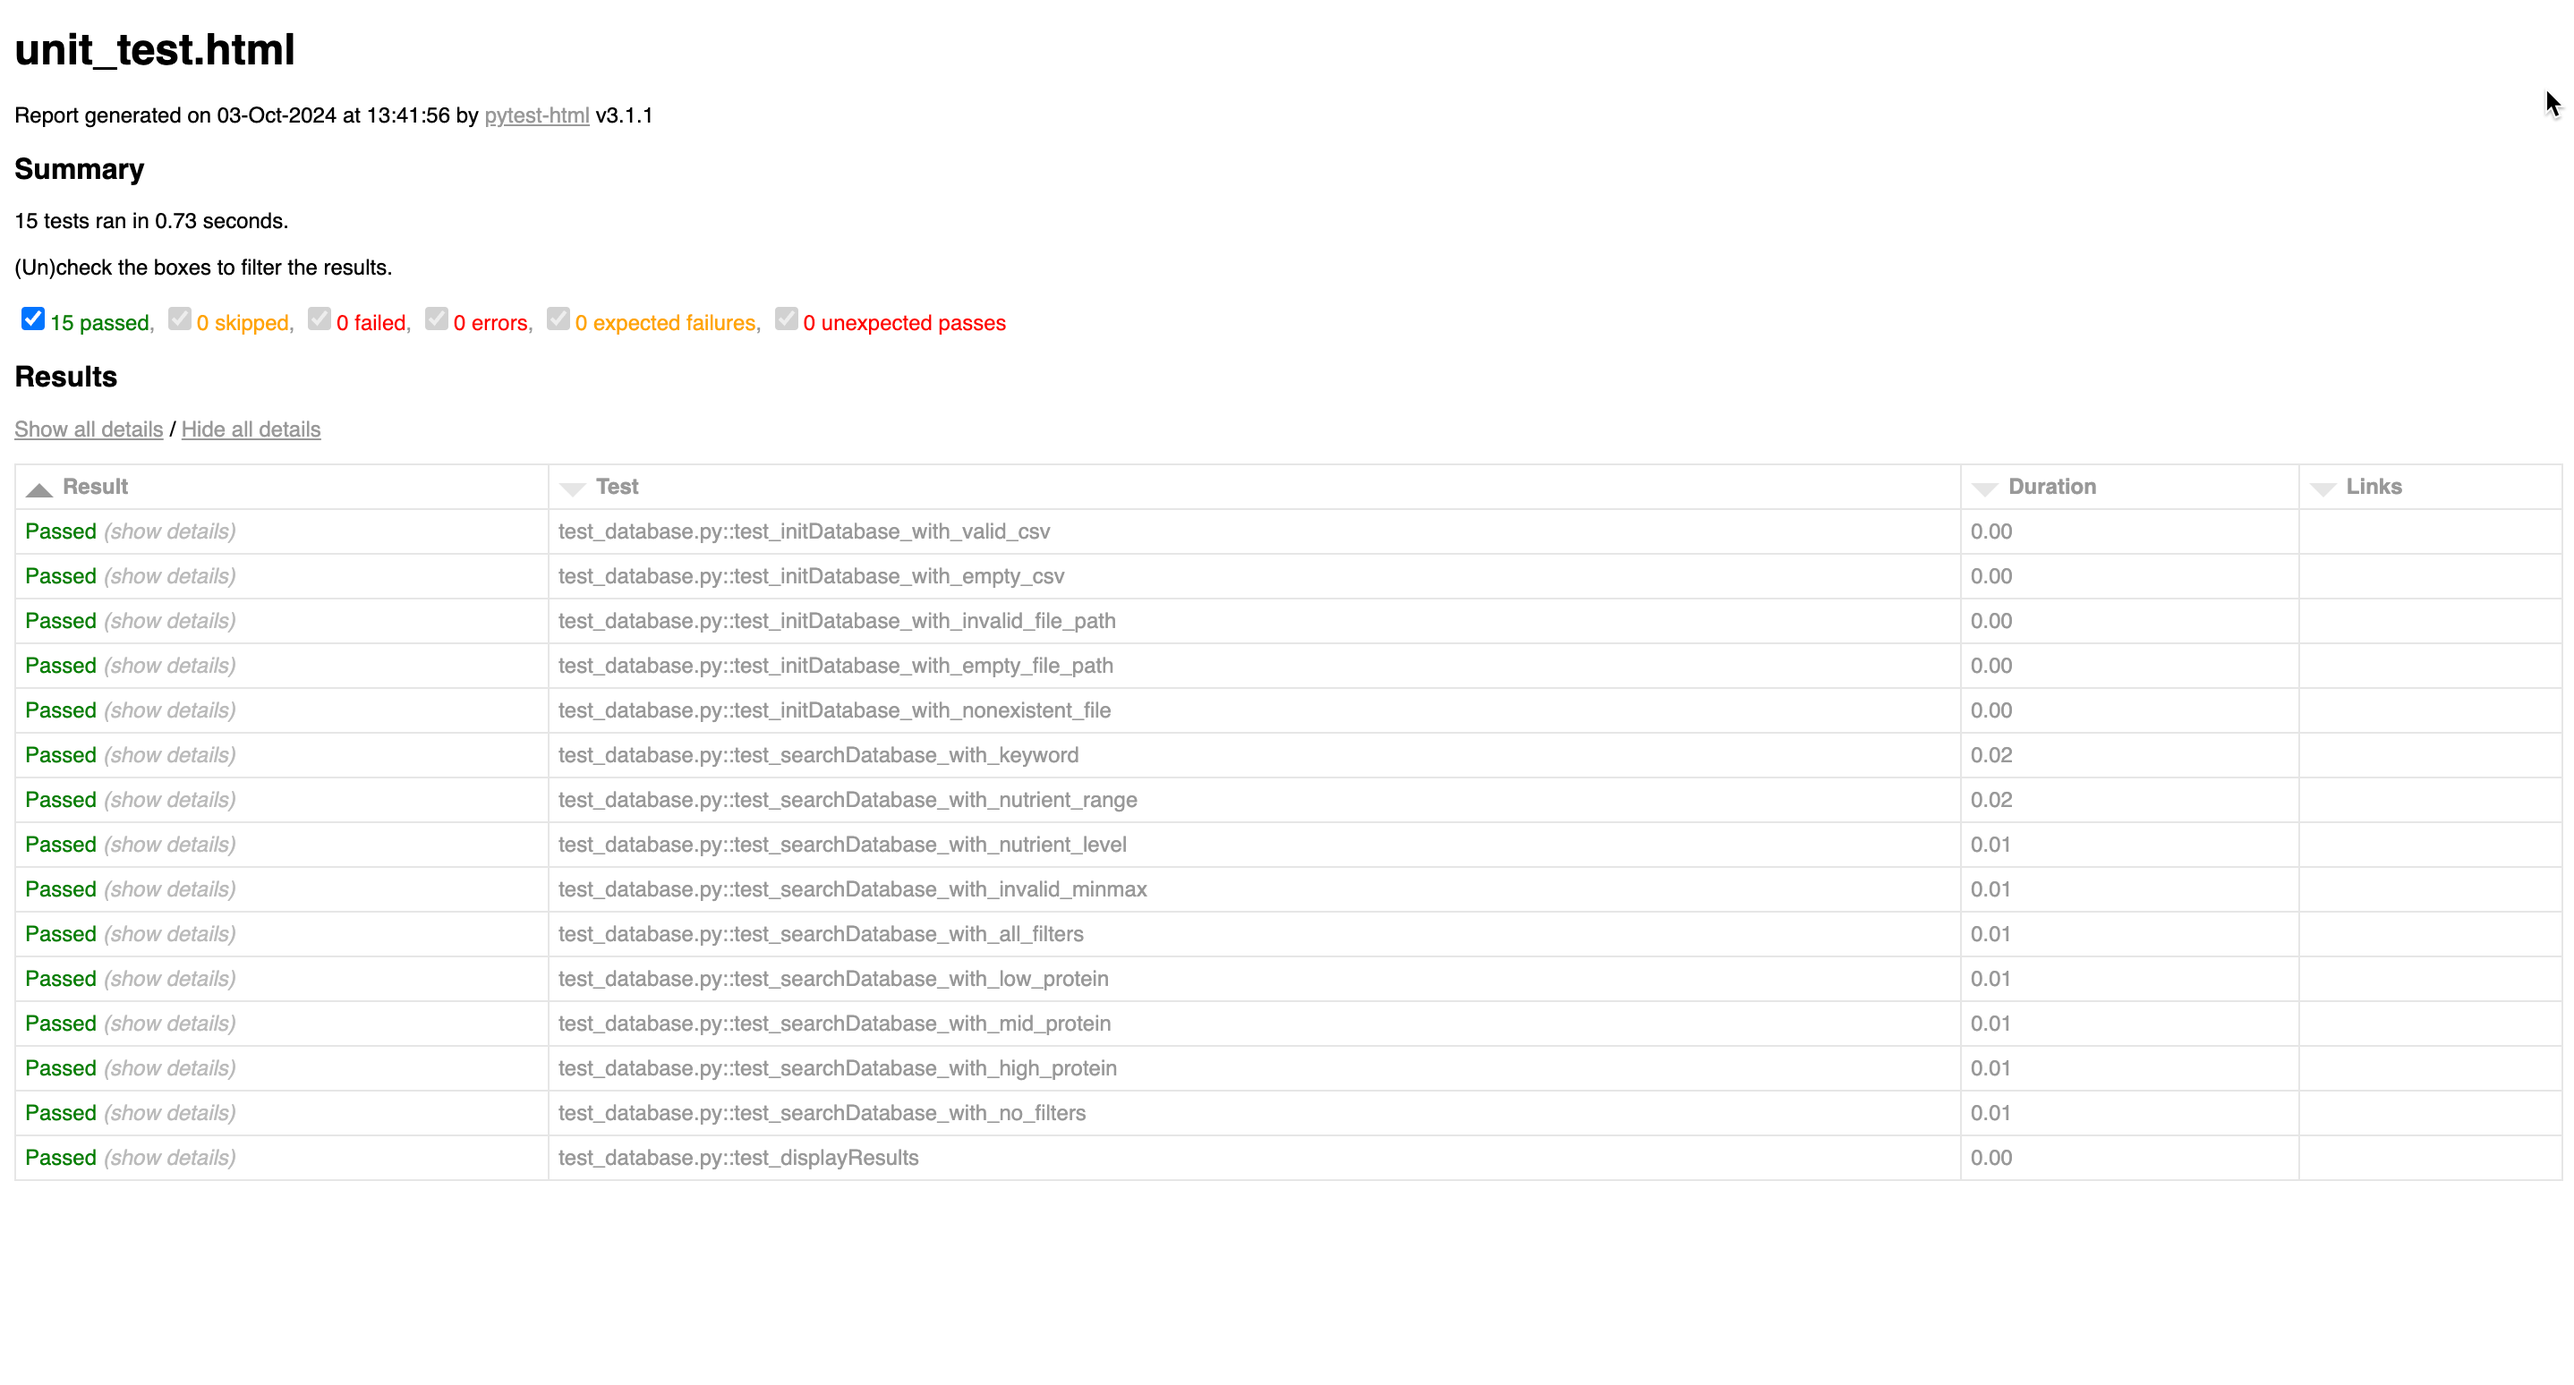
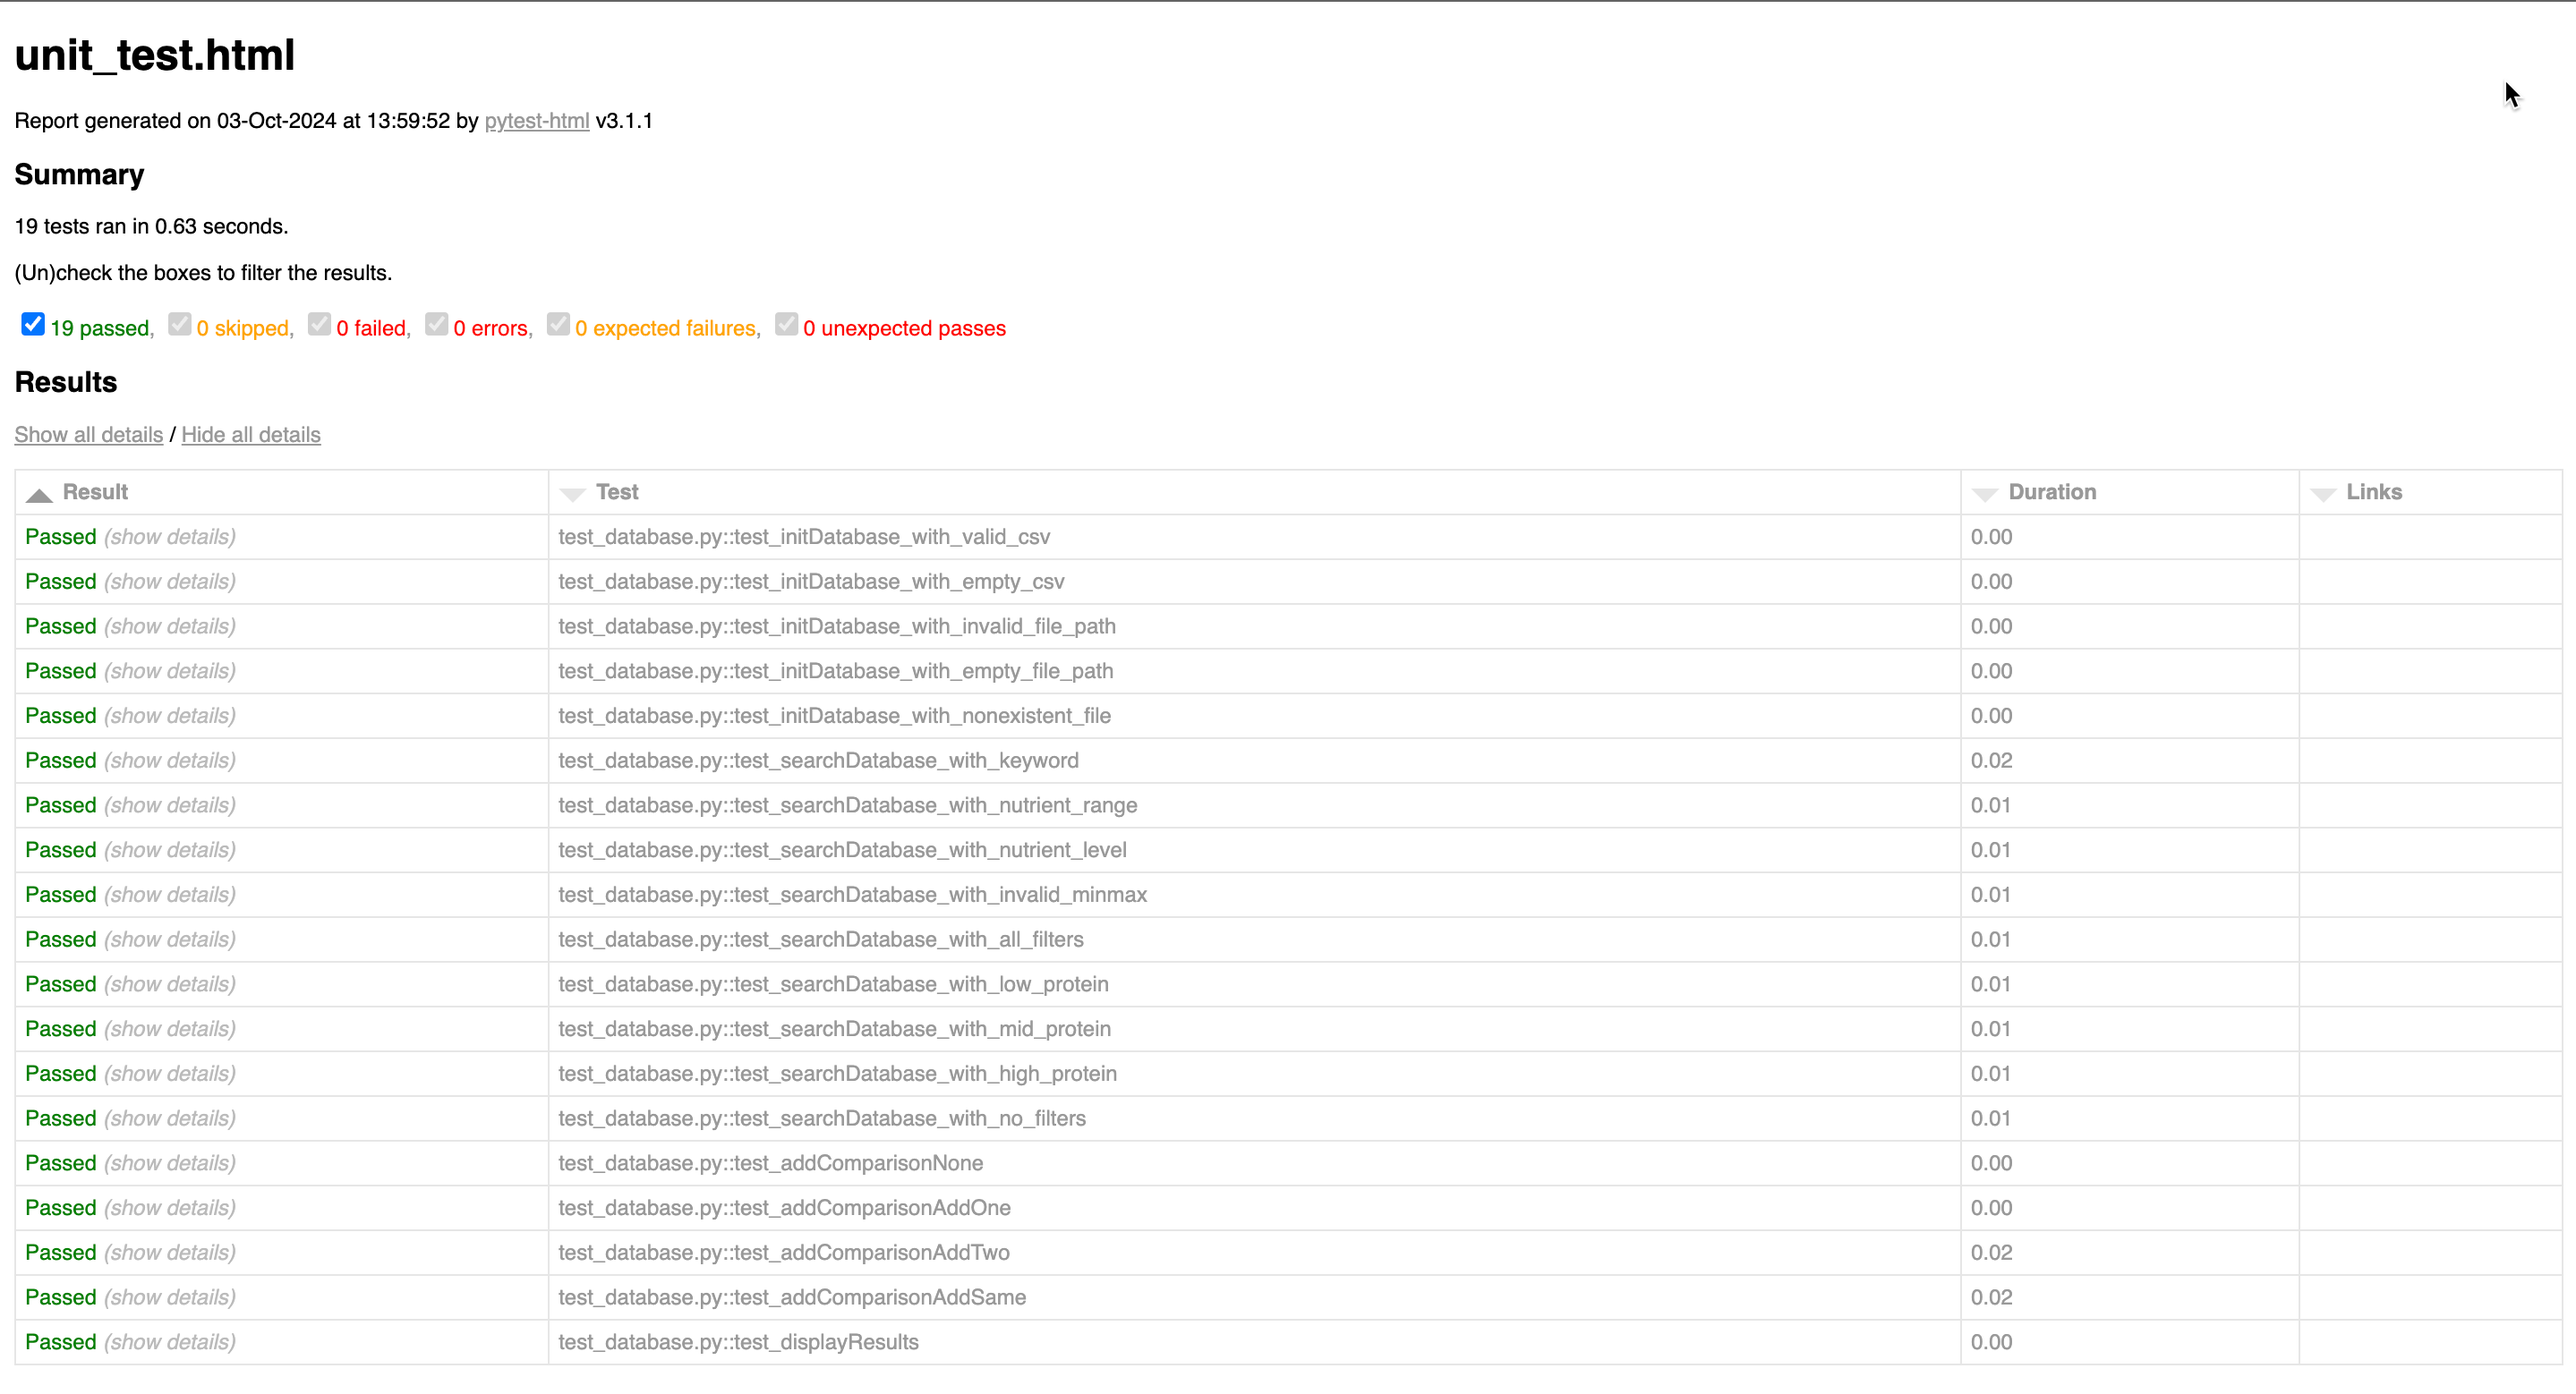
Unit test summary updated

diff --git a/src/unit_test.html b/src/unit_test.html
@@ -429,10 +429,10 @@ function filterTable(elem) { // eslint-disable-line no-unused-vars
 }
 </script>
     <h1>unit_test.html</h1>
-    <p>Report generated on 03-Oct-2024 at 13:41:56 by <a href="https://pypi.python.org/pypi/pytest-html">pytest-html</a> v3.1.1</p>
+    <p>Report generated on 03-Oct-2024 at 13:59:52 by <a href="https://pypi.python.org/pypi/pytest-html">pytest-html</a> v3.1.1</p>
     <h2>Summary</h2>
-    <p>15 tests ran in 0.73 seconds. </p>
-    <p class="filter" hidden="true">(Un)check the boxes to filter the results.</p><input checked="true" class="filter" data-test-result="passed" hidden="true" name="filter_checkbox" onChange="filterTable(this)" type="checkbox"/><span class="passed">15 passed</span>, <input checked="true" class="filter" data-test-result="skipped" disabled="true" hidden="true" name="filter_checkbox" onChange="filterTable(this)" type="checkbox"/><span class="skipped">0 skipped</span>, <input checked="true" class="filter" data-test-result="failed" disabled="true" hidden="true" name="filter_checkbox" onChange="filterTable(this)" type="checkbox"/><span class="failed">0 failed</span>, <input checked="true" class="filter" data-test-result="error" disabled="true" hidden="true" name="filter_checkbox" onChange="filterTable(this)" type="checkbox"/><span class="error">0 errors</span>, <input checked="true" class="filter" data-test-result="xfailed" disabled="true" hidden="true" name="filter_checkbox" onChange="filterTable(this)" type="checkbox"/><span class="xfailed">0 expected failures</span>, <input checked="true" class="filter" data-test-result="xpassed" disabled="true" hidden="true" name="filter_checkbox" onChange="filterTable(this)" type="checkbox"/><span class="xpassed">0 unexpected passes</span>
+    <p>19 tests ran in 0.63 seconds. </p>
+    <p class="filter" hidden="true">(Un)check the boxes to filter the results.</p><input checked="true" class="filter" data-test-result="passed" hidden="true" name="filter_checkbox" onChange="filterTable(this)" type="checkbox"/><span class="passed">19 passed</span>, <input checked="true" class="filter" data-test-result="skipped" disabled="true" hidden="true" name="filter_checkbox" onChange="filterTable(this)" type="checkbox"/><span class="skipped">0 skipped</span>, <input checked="true" class="filter" data-test-result="failed" disabled="true" hidden="true" name="filter_checkbox" onChange="filterTable(this)" type="checkbox"/><span class="failed">0 failed</span>, <input checked="true" class="filter" data-test-result="error" disabled="true" hidden="true" name="filter_checkbox" onChange="filterTable(this)" type="checkbox"/><span class="error">0 errors</span>, <input checked="true" class="filter" data-test-result="xfailed" disabled="true" hidden="true" name="filter_checkbox" onChange="filterTable(this)" type="checkbox"/><span class="xfailed">0 expected failures</span>, <input checked="true" class="filter" data-test-result="xpassed" disabled="true" hidden="true" name="filter_checkbox" onChange="filterTable(this)" type="checkbox"/><span class="xpassed">0 unexpected passes</span>
     <h2>Results</h2>
     <table id="results-table">
       <thead id="results-table-head">
@@ -516,7 +516,7 @@ function filterTable(elem) { // eslint-disable-line no-unused-vars
         <tr>
           <td class="col-result">Passed</td>
           <td class="col-name">test_database.py::test_searchDatabase_with_nutrient_range</td>
-          <td class="col-duration">0.02</td>
+          <td class="col-duration">0.01</td>
           <td class="col-links"></td></tr>
         <tr>
           <td class="extra" colspan="4">
@@ -713,6 +713,70 @@ filters: 3, type: &lt;class &#x27;int&#x27;&gt;
 2394                   oyster mushroom              5  ...  0.048              1.804
 
 [2395 rows x 35 columns]
+<br/></div></td></tr></tbody>
+      <tbody class="passed results-table-row">
+        <tr>
+          <td class="col-result">Passed</td>
+          <td class="col-name">test_database.py::test_addComparisonNone</td>
+          <td class="col-duration">0.00</td>
+          <td class="col-links"></td></tr>
+        <tr>
+          <td class="extra" colspan="4">
+            <div class="empty log">No log output captured.</div></td></tr></tbody>
+      <tbody class="passed results-table-row">
+        <tr>
+          <td class="col-result">Passed</td>
+          <td class="col-name">test_database.py::test_addComparisonAddOne</td>
+          <td class="col-duration">0.00</td>
+          <td class="col-links"></td></tr>
+        <tr>
+          <td class="extra" colspan="4">
+            <div class="empty log">No log output captured.</div></td></tr></tbody>
+      <tbody class="passed results-table-row">
+        <tr>
+          <td class="col-result">Passed</td>
+          <td class="col-name">test_database.py::test_addComparisonAddTwo</td>
+          <td class="col-duration">0.02</td>
+          <td class="col-links"></td></tr>
+        <tr>
+          <td class="extra" colspan="4">
+            <div class="log"> ------------------------------Captured stdout call------------------------------ <br/>&lt;class &#x27;pandas.core.frame.DataFrame&#x27;&gt;
+           food  Caloric Value  Fat  ...  Selenium   Zinc  Nutrition Density
+0  cream cheese             51  5.0  ...      19.1  0.039               7.07
+
+[1 rows x 35 columns]
+&lt;class &#x27;list&#x27;&gt;
+[]
+&lt;class &#x27;pandas.core.frame.DataFrame&#x27;&gt;
+             food  Caloric Value  Fat  ...  Selenium  Zinc  Nutrition Density
+6  gruyere cheese            116  9.1  ...     0.079   1.1            300.694
+
+[1 rows x 35 columns]
+&lt;class &#x27;list&#x27;&gt;
+[&#x27;cream cheese&#x27;]
+<br/></div></td></tr></tbody>
+      <tbody class="passed results-table-row">
+        <tr>
+          <td class="col-result">Passed</td>
+          <td class="col-name">test_database.py::test_addComparisonAddSame</td>
+          <td class="col-duration">0.02</td>
+          <td class="col-links"></td></tr>
+        <tr>
+          <td class="extra" colspan="4">
+            <div class="log"> ------------------------------Captured stdout call------------------------------ <br/>&lt;class &#x27;pandas.core.frame.DataFrame&#x27;&gt;
+           food  Caloric Value  Fat  ...  Selenium   Zinc  Nutrition Density
+0  cream cheese             51  5.0  ...      19.1  0.039               7.07
+
+[1 rows x 35 columns]
+&lt;class &#x27;list&#x27;&gt;
+[]
+&lt;class &#x27;pandas.core.frame.DataFrame&#x27;&gt;
+           food  Caloric Value  Fat  ...  Selenium   Zinc  Nutrition Density
+0  cream cheese             51  5.0  ...      19.1  0.039               7.07
+
+[1 rows x 35 columns]
+&lt;class &#x27;list&#x27;&gt;
+[&#x27;cream cheese&#x27;]
 <br/></div></td></tr></tbody>
       <tbody class="passed results-table-row">
         <tr>

diff --git a/Unit_Testing_Report.md b/Unit_Testing_Report.md
@@ -529,4 +529,4 @@ pytest test_all_functions.py --html=unit_test.html --self-contained-html
 
 Note: test_all_functions.py should contain all the test functions designed to test the self-defined functions related 
 to the five required features.
-![unit test summary]![Unit_test_report.png](Executive%20summary%20screenshots%2FUnit_test_report.png)
+![unit test summary]!
